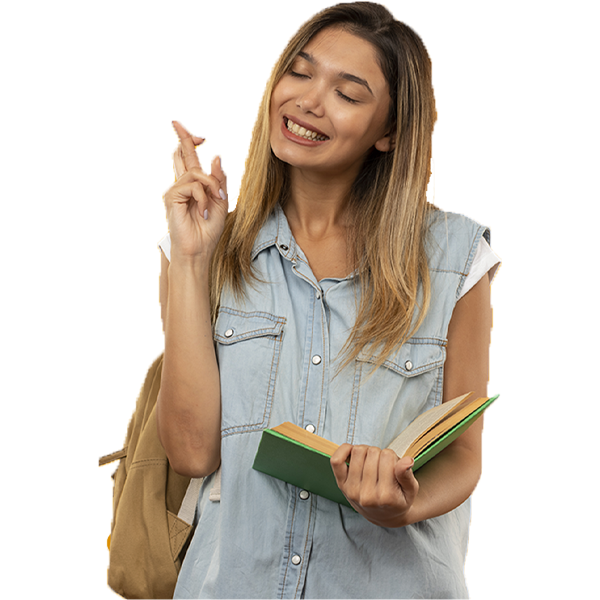
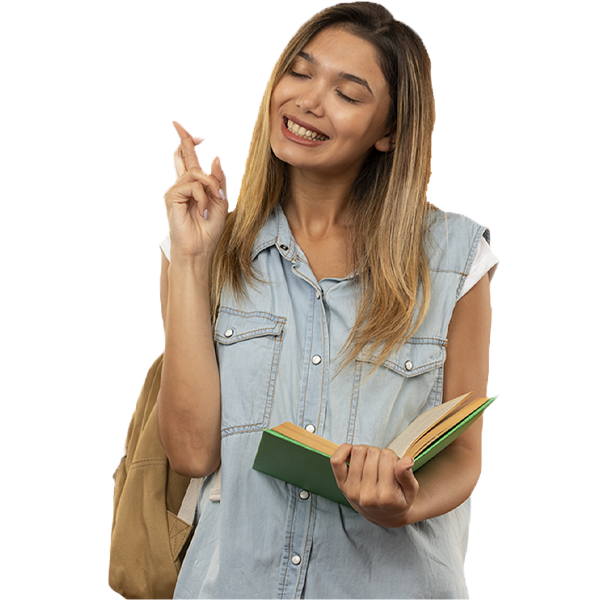
novas atualizações

diff --git a/index.html b/index.html
@@ -32,7 +32,7 @@
             
             </div>
             <div class="imagem">
-                <img src="imagens/imgs/garota600x600.png" alt="" class="imagemM">
+                <img src="imagens/imgs/garota.png" alt="" class="imagemM">
                 <img src="imagens/laptop.png" alt="" class="imagemP">
             </div>
         </div>
@@ -40,7 +40,7 @@
         <!--Cursos Preparatórios-->
         <div class="cursos-container">
             <div class="imagem">
-                <img src="imagens/imgs/estudante600x600.png" alt="" class="imagemM">
+                <img src="imagens/imgs/estudante.png" alt="" class="imagemM">
                 <img src="imagens/estudos.png" alt="" class="imagemP">
 
             </div>
